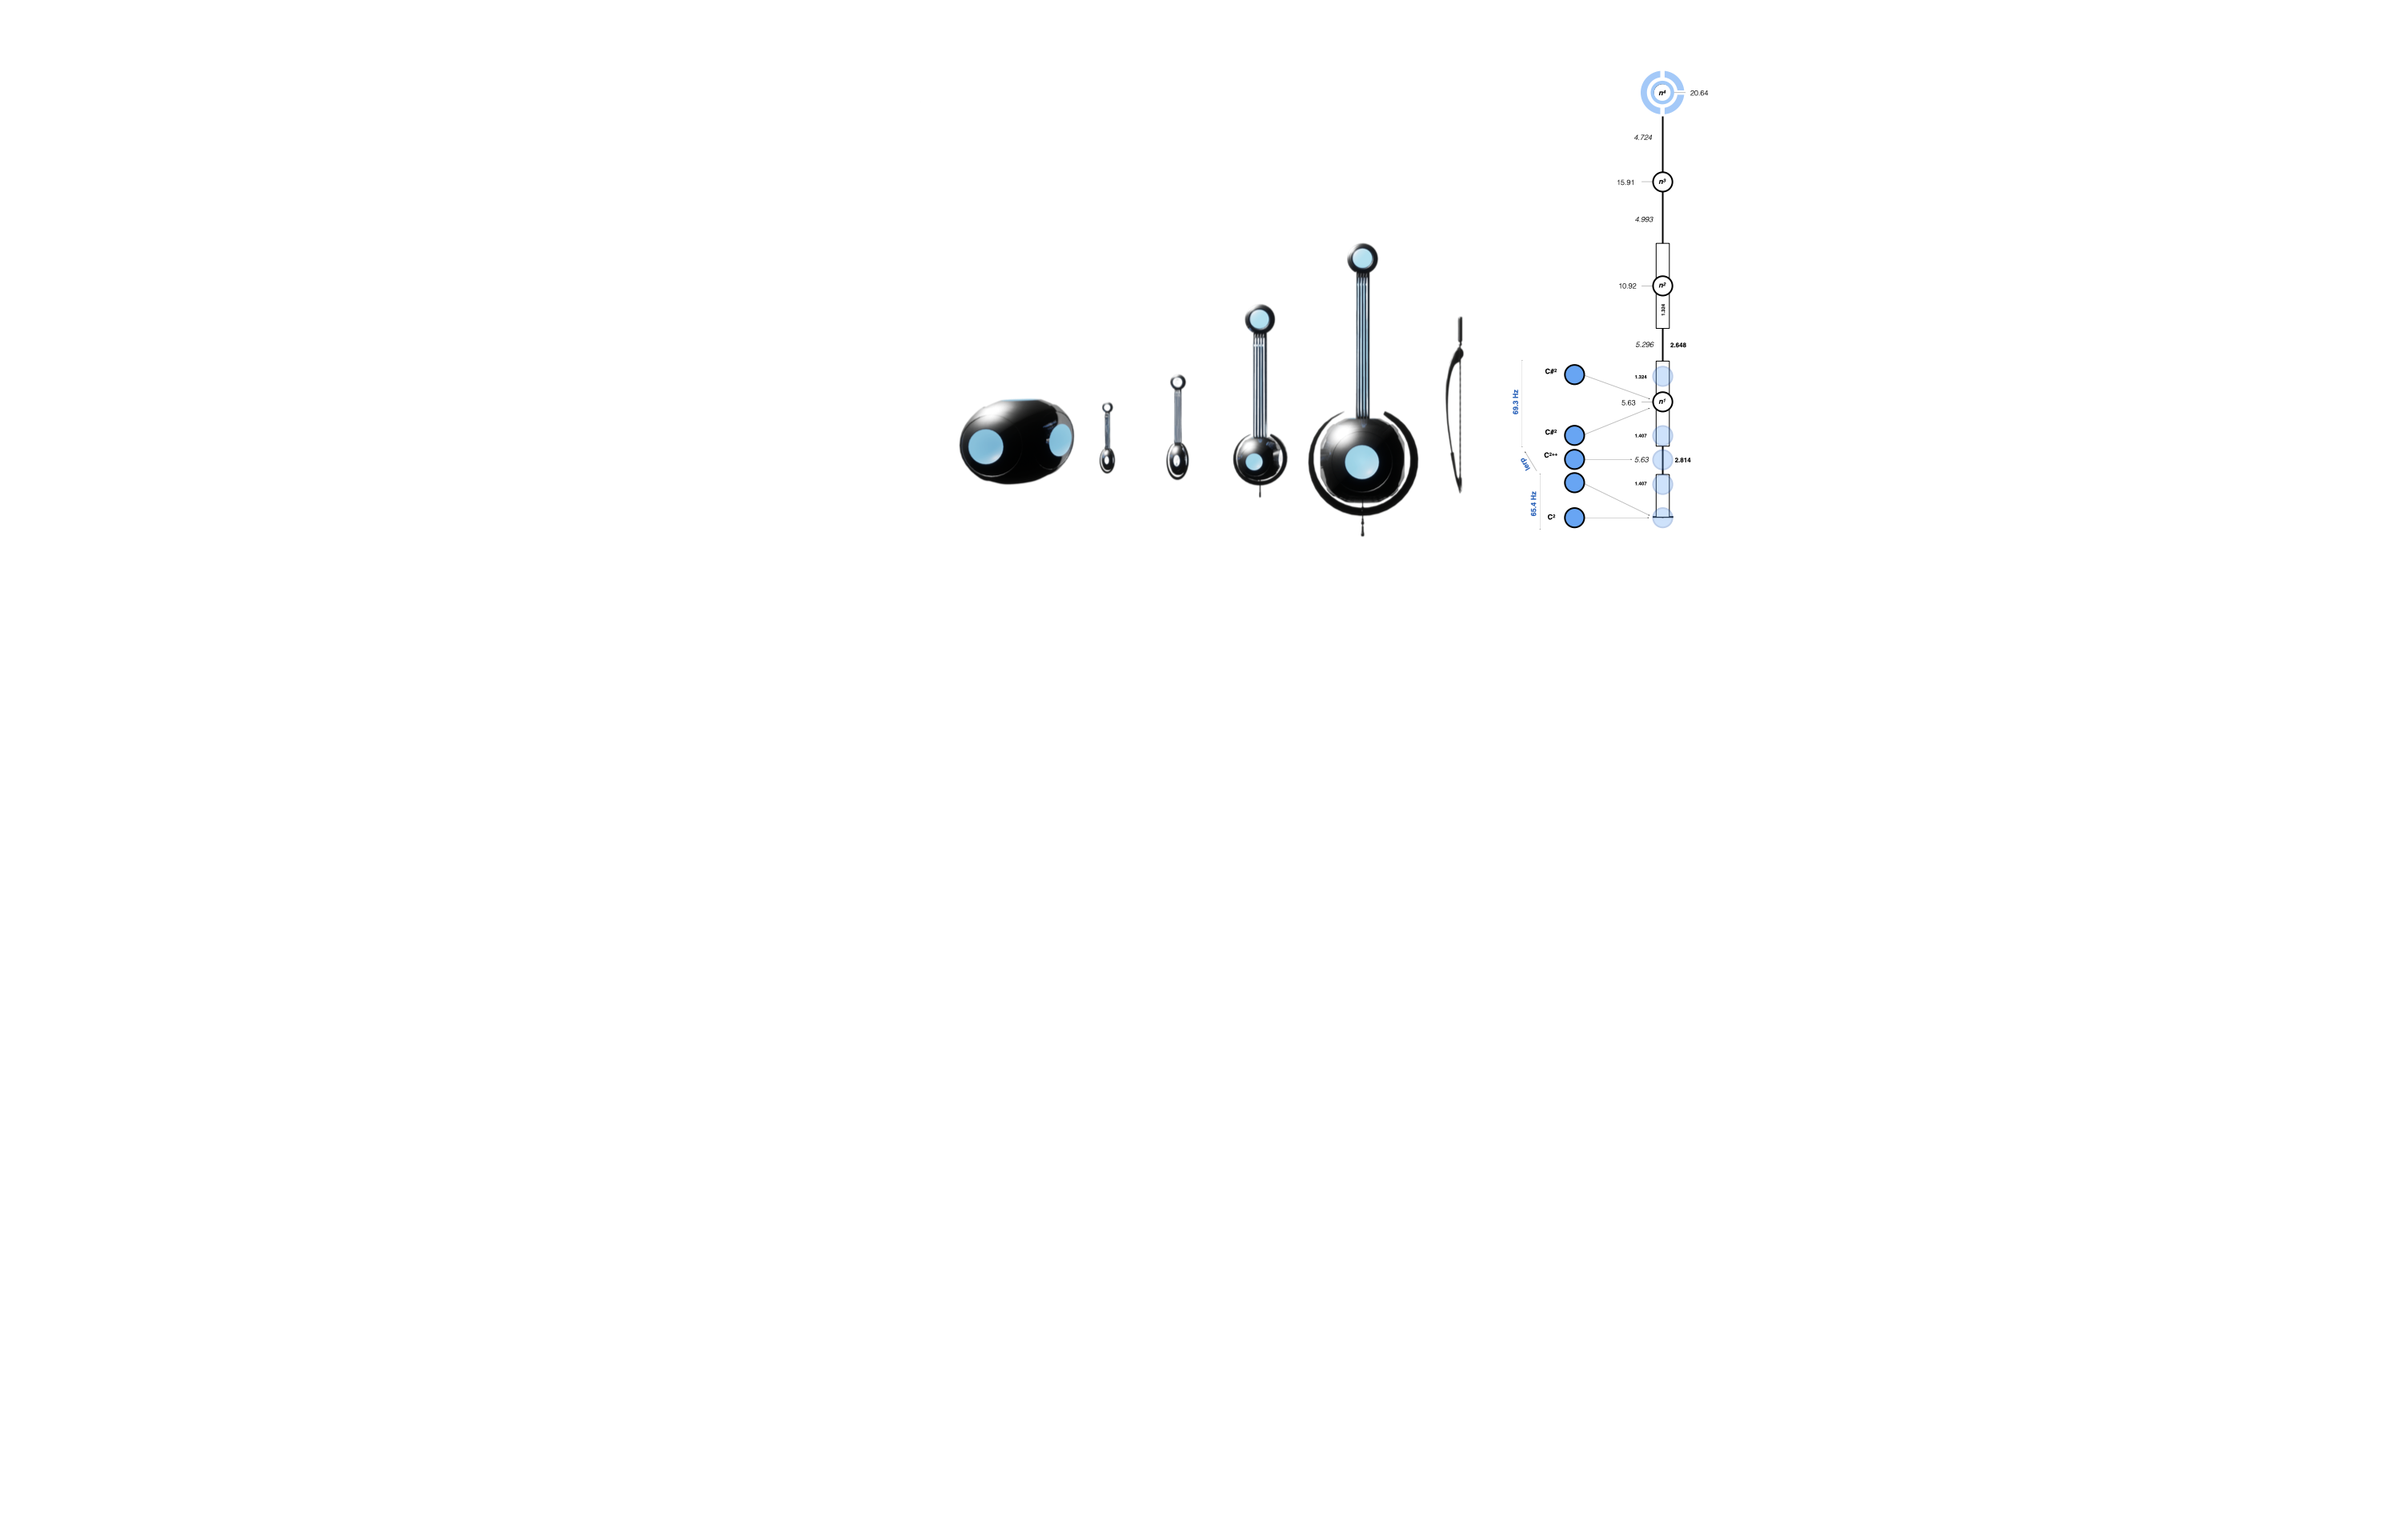
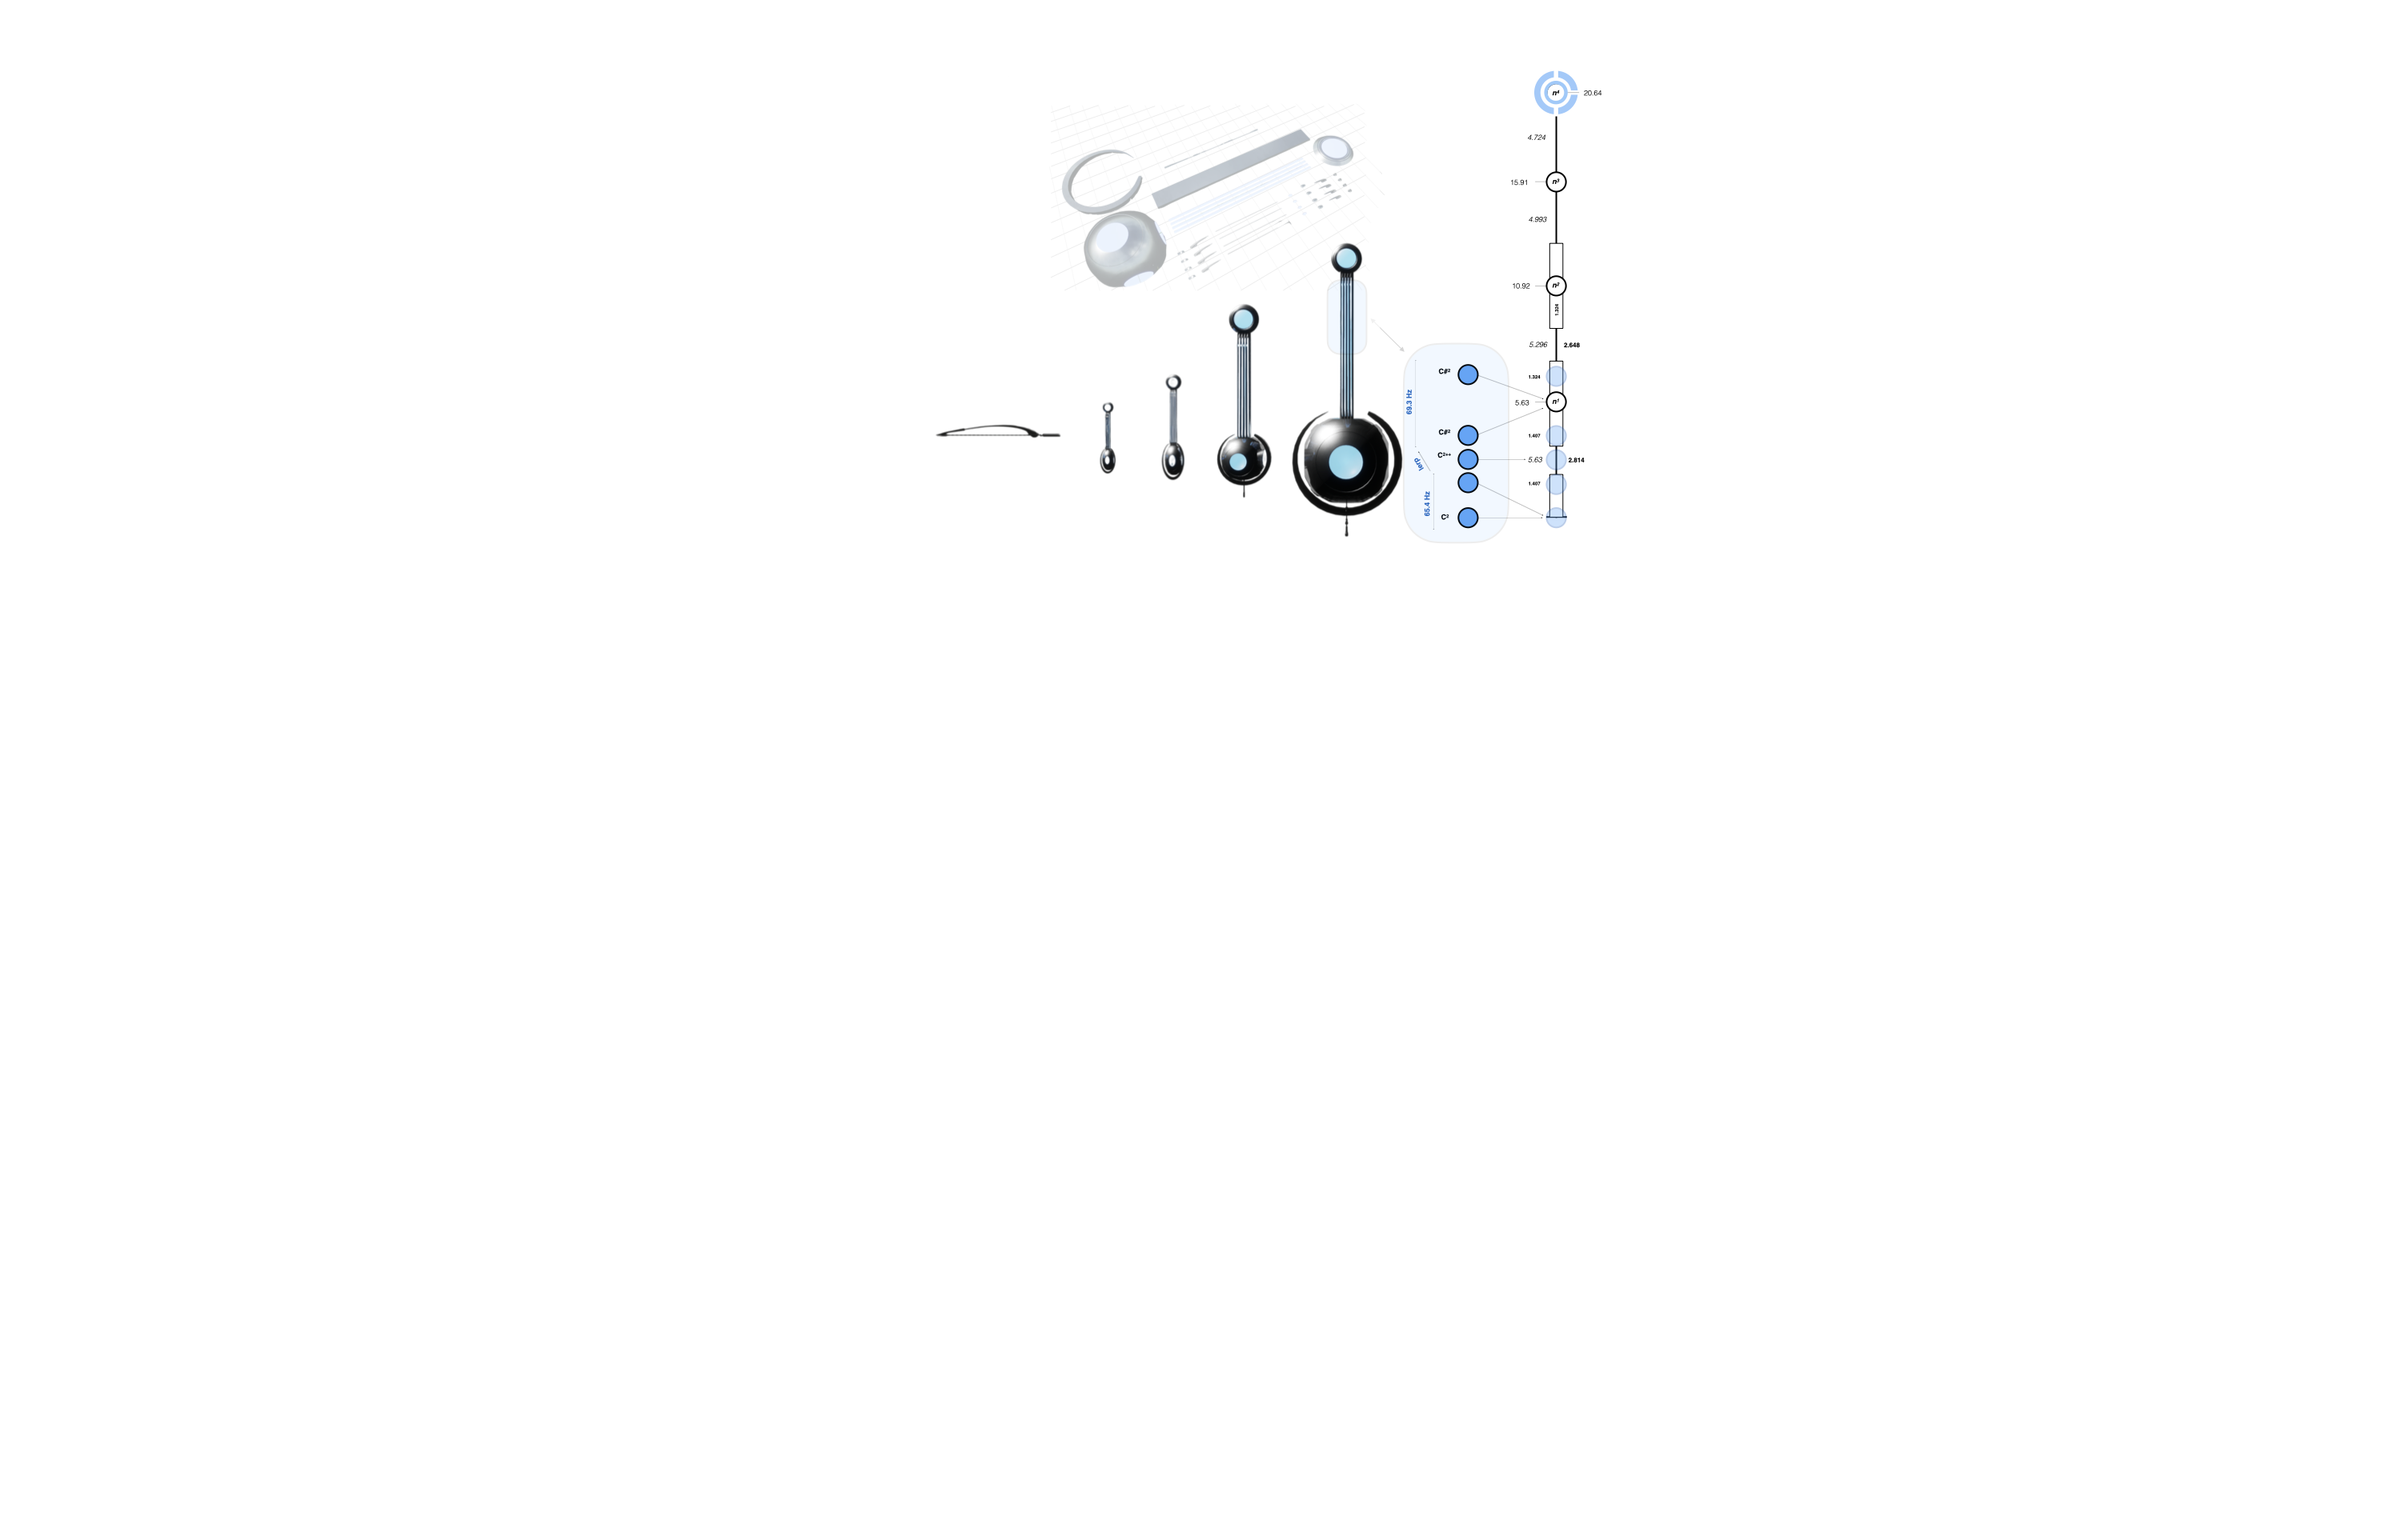
update bg

diff --git a/nonlinear/index.html b/nonlinear/index.html
@@ -143,13 +143,13 @@
         </div><!--End of Header-->
 
         <!--Banner Content-->
-        <div id="banner-content" class="row clearfix">
+        <div id="banner-content" class="row clearfix" style="padding-bottom: 50px">
 
             <div class="col-38">
 
                 <div class="section-heading">
                     <h1>Ensemble Nonlinear</h1>
-                    <h2>ARTS 2600 / 4600 / 6600</h2>					
+                    <h2>ARTS 2600 / 4600 / 6600 (Spring, 2027)</h2>					
                 </div>
 
                 <!--Call to Action-->
@@ -167,7 +167,7 @@
         <!--Introduction-->
         <section id="about" class="introduction scrollto">
 
-            <div class="row clearfix" style="padding: 20px 0px">
+            <div class="row clearfix" style="padding: 70px 0px 10px 0px">
 
                 <div class="col-3">
                     <div class="section-heading">
@@ -251,7 +251,7 @@
 
         <!--Gallery-->
         <aside id="gallery" class="row text-center scrollto clearfix" data-featherlight-gallery
-                 data-featherlight-filter="a">
+                 data-featherlight-filter="a" style="padding: 30px 0px">
 
                 <a href="images/gallery-images/gallery-image-1.jpg" data-featherlight="image" class="col-3 wow fadeIn"
                    data-wow-delay="0.1s"><img src="images/gallery-images/gallery-image-1.jpg" alt="Landing Page"/></a>
